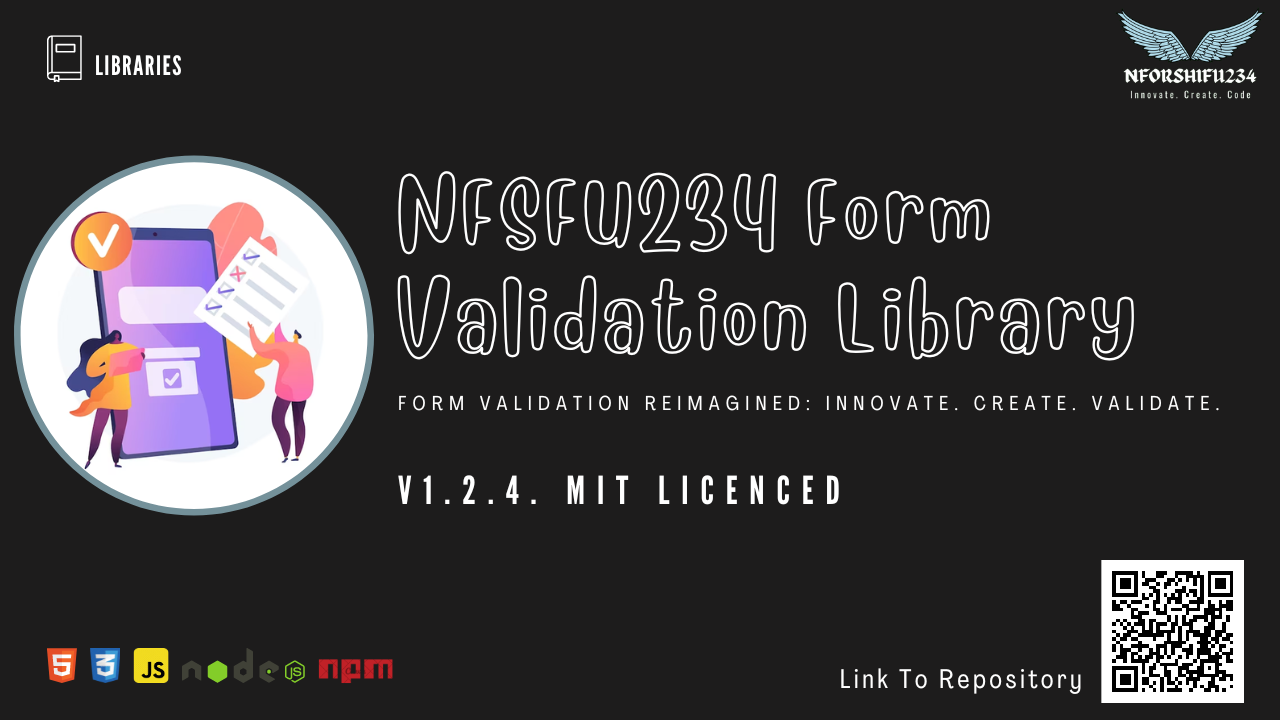
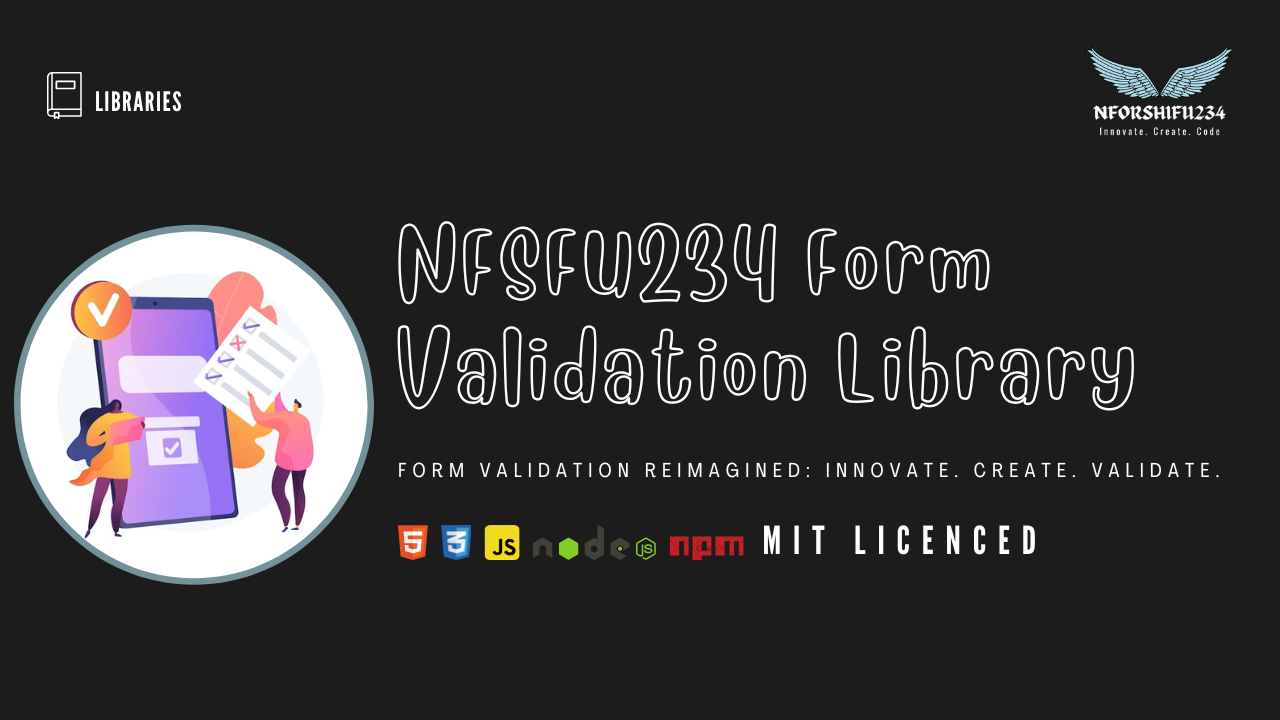
Welcome to NFSFU234 Form Validation@v2.0.0

diff --git a/dist/css/nfsfu234FormValidation.min.css b/dist/css/nfsfu234FormValidation.min.css
@@ -1,2 +1,2 @@
 :root{--success:#4caf50;--failure:#f44336;--warning:#ff9800;--white:#fff;--black:#000}.relative-position{position:relative!important}.bgSuccess{background:var(--success)!important;color:var(--white)!important}.text-success{color:var(--success)!important}.fail{background:var(--failure)!important;color:var(--white)!important}.text-fail,.text-failure{color:var(--failure)!important}.warning{background:var(--warning)!important;color:var(--white)!important}.input-focus-error{border:1px solid var(--failure)!important;color:var(--failure)!important}.js-inline-message{color:var(--failure);display:block;font-size:calc(100% - .3rem);margin:5px 0;text-transform:uppercase;width:100%}.js-errorMessageContainer{height:max-content;position:absolute;top:0;width:100%}.js-errorMessageContainer .login-error-message-container{background:red;border:1.5px solid red;border-radius:10px;color:#fff;display:none;margin-bottom:10px;overflow:hidden;position:relative;transition:margin .5s ease-in-out;width:clamp(100%,80vw,300px)}.js-errorMessageContainer .login-error-message-container .message{align-items:center;display:flex;height:100%;justify-content:center;letter-spacing:1.5px;min-height:50px;padding:0 .3rem;text-align:center;text-transform:uppercase;width:calc(100% - 50px)}.js-errorMessageContainer .login-error-message-container .icon{align-items:center;background:#fff;color:red;display:flex;height:100%;justify-content:center;position:absolute;right:0;top:0;width:50px}.js-errorMessageContainer .login-error-message-container .icon svg{fill:currentColor;height:60%;width:60%}.js-errorMessageContainer .login-error-message-container.active{display:block!important}.js-errorMessageContainer .login-error-message-container.success{background:var(--success);border:1.5px solid var(--success)}.js-errorMessageContainer .login-error-message-container.success .icon{color:var(--success)}@keyframes spin{to{transform:rotate(1turn)}}.spin{animation:spin 1s linear infinite}.cssShowPassword{fill:#fff;align-items:center;background:#000;bottom:0;color:#fff;display:flex;height:50px;justify-content:center;position:absolute;right:0;width:50px}.cssShowPassword svg{height:25px;width:25px}
-/*# sourceMappingURL=nfsfu234-formValidation.min.css.map*/
+/*# sourceMappingURL=nfsfu234FormValidation.min.css.map*/

diff --git a/web/index.html b/web/index.html
@@ -7,7 +7,7 @@
     <link rel="stylesheet" href="assets/css/style.css">
 
     <!-- Load NFSFU234FormValidation Library -->
-    <script src="https://unpkg.com/nfsfu234-form-validation@1.2.4/dist/js/nfsfu234FormValidation.js"></script>
+    <script src="https://unpkg.com/nfsfu234-form-validation@2.0.0/dist/js/nfsfu234FormValidation.js"></script>
     <script src="assets/js/script.js"></script>
 
     <script> const ajaxOptions = { url: 'https://unpkg.com/nfsfu234-form-validation@1.2.4/package.json', RequestMethod: 'GET', }; const NFSFU234FormValidationLibrary = new NFSFU234FormValidation(); (async () => { try { 

diff --git a/webpack.css.config.js b/webpack.css.config.js
@@ -21,7 +21,7 @@ module.exports = {
       filename: 'css/nfsfu234FormValidation.css', // Original CSS filename
     }),
     new MiniCssExtractPlugin({
-        filename: 'css/nfsfu234-formValidation.min.css', // Minified CSS filename
+        filename: 'css/nfsfu234FormValidation.min.css', // Minified CSS filename
     }),
   ],
   optimization: {

diff --git a/ReadMe.md b/ReadMe.md
@@ -52,8 +52,8 @@ To use the library in your project, there are two ways to include NFSF234 Form V
 If you're looking to employ the form validation library in your browser environment, simply include the following URLs within the `<head>` tag of your HTML code:
 
 ```html
-<link rel="stylesheet" href="https://unpkg.com/nfsfu234-form-validation@1.2.4/dist/css/nfsfu234FormValidation.min.css">
-<script src="https://unpkg.com/nfsfu234-form-validation@1.2.4/dist/js/nfsfu234FormValidation.js"></script>
+<link rel="stylesheet" href="https://unpkg.com/nfsfu234-form-validation@2.0.0/dist/css/nfsfu234FormValidation.min.css">
+<script src="https://unpkg.com/nfsfu234-form-validation@2.0.0/dist/js/nfsfu234FormValidation.js"></script>
 ```
 
 This way, your browser-based project can readily harness the capabilities of the NFSFU234 Form Validation library. 🌐📦

diff --git a/CHANGELOG.md b/CHANGELOG.md
@@ -1,5 +1,13 @@
 # Changelog
 
+## [2.0.0] - 2023-08-26
+
+### Breaking Change
+- Renamed the minified CSS output file from `nfsfu234-formValidation.min.css` to `nfsfu234FormValidation.min.css`, impacting how users refrence the minified CSS 
+
+### Other Changes
+- Updated the banner from the versioning banner to a more staticand elegant banner.
+
 ## [1.2.4] - 2023-08-26
 
 ### Changed
